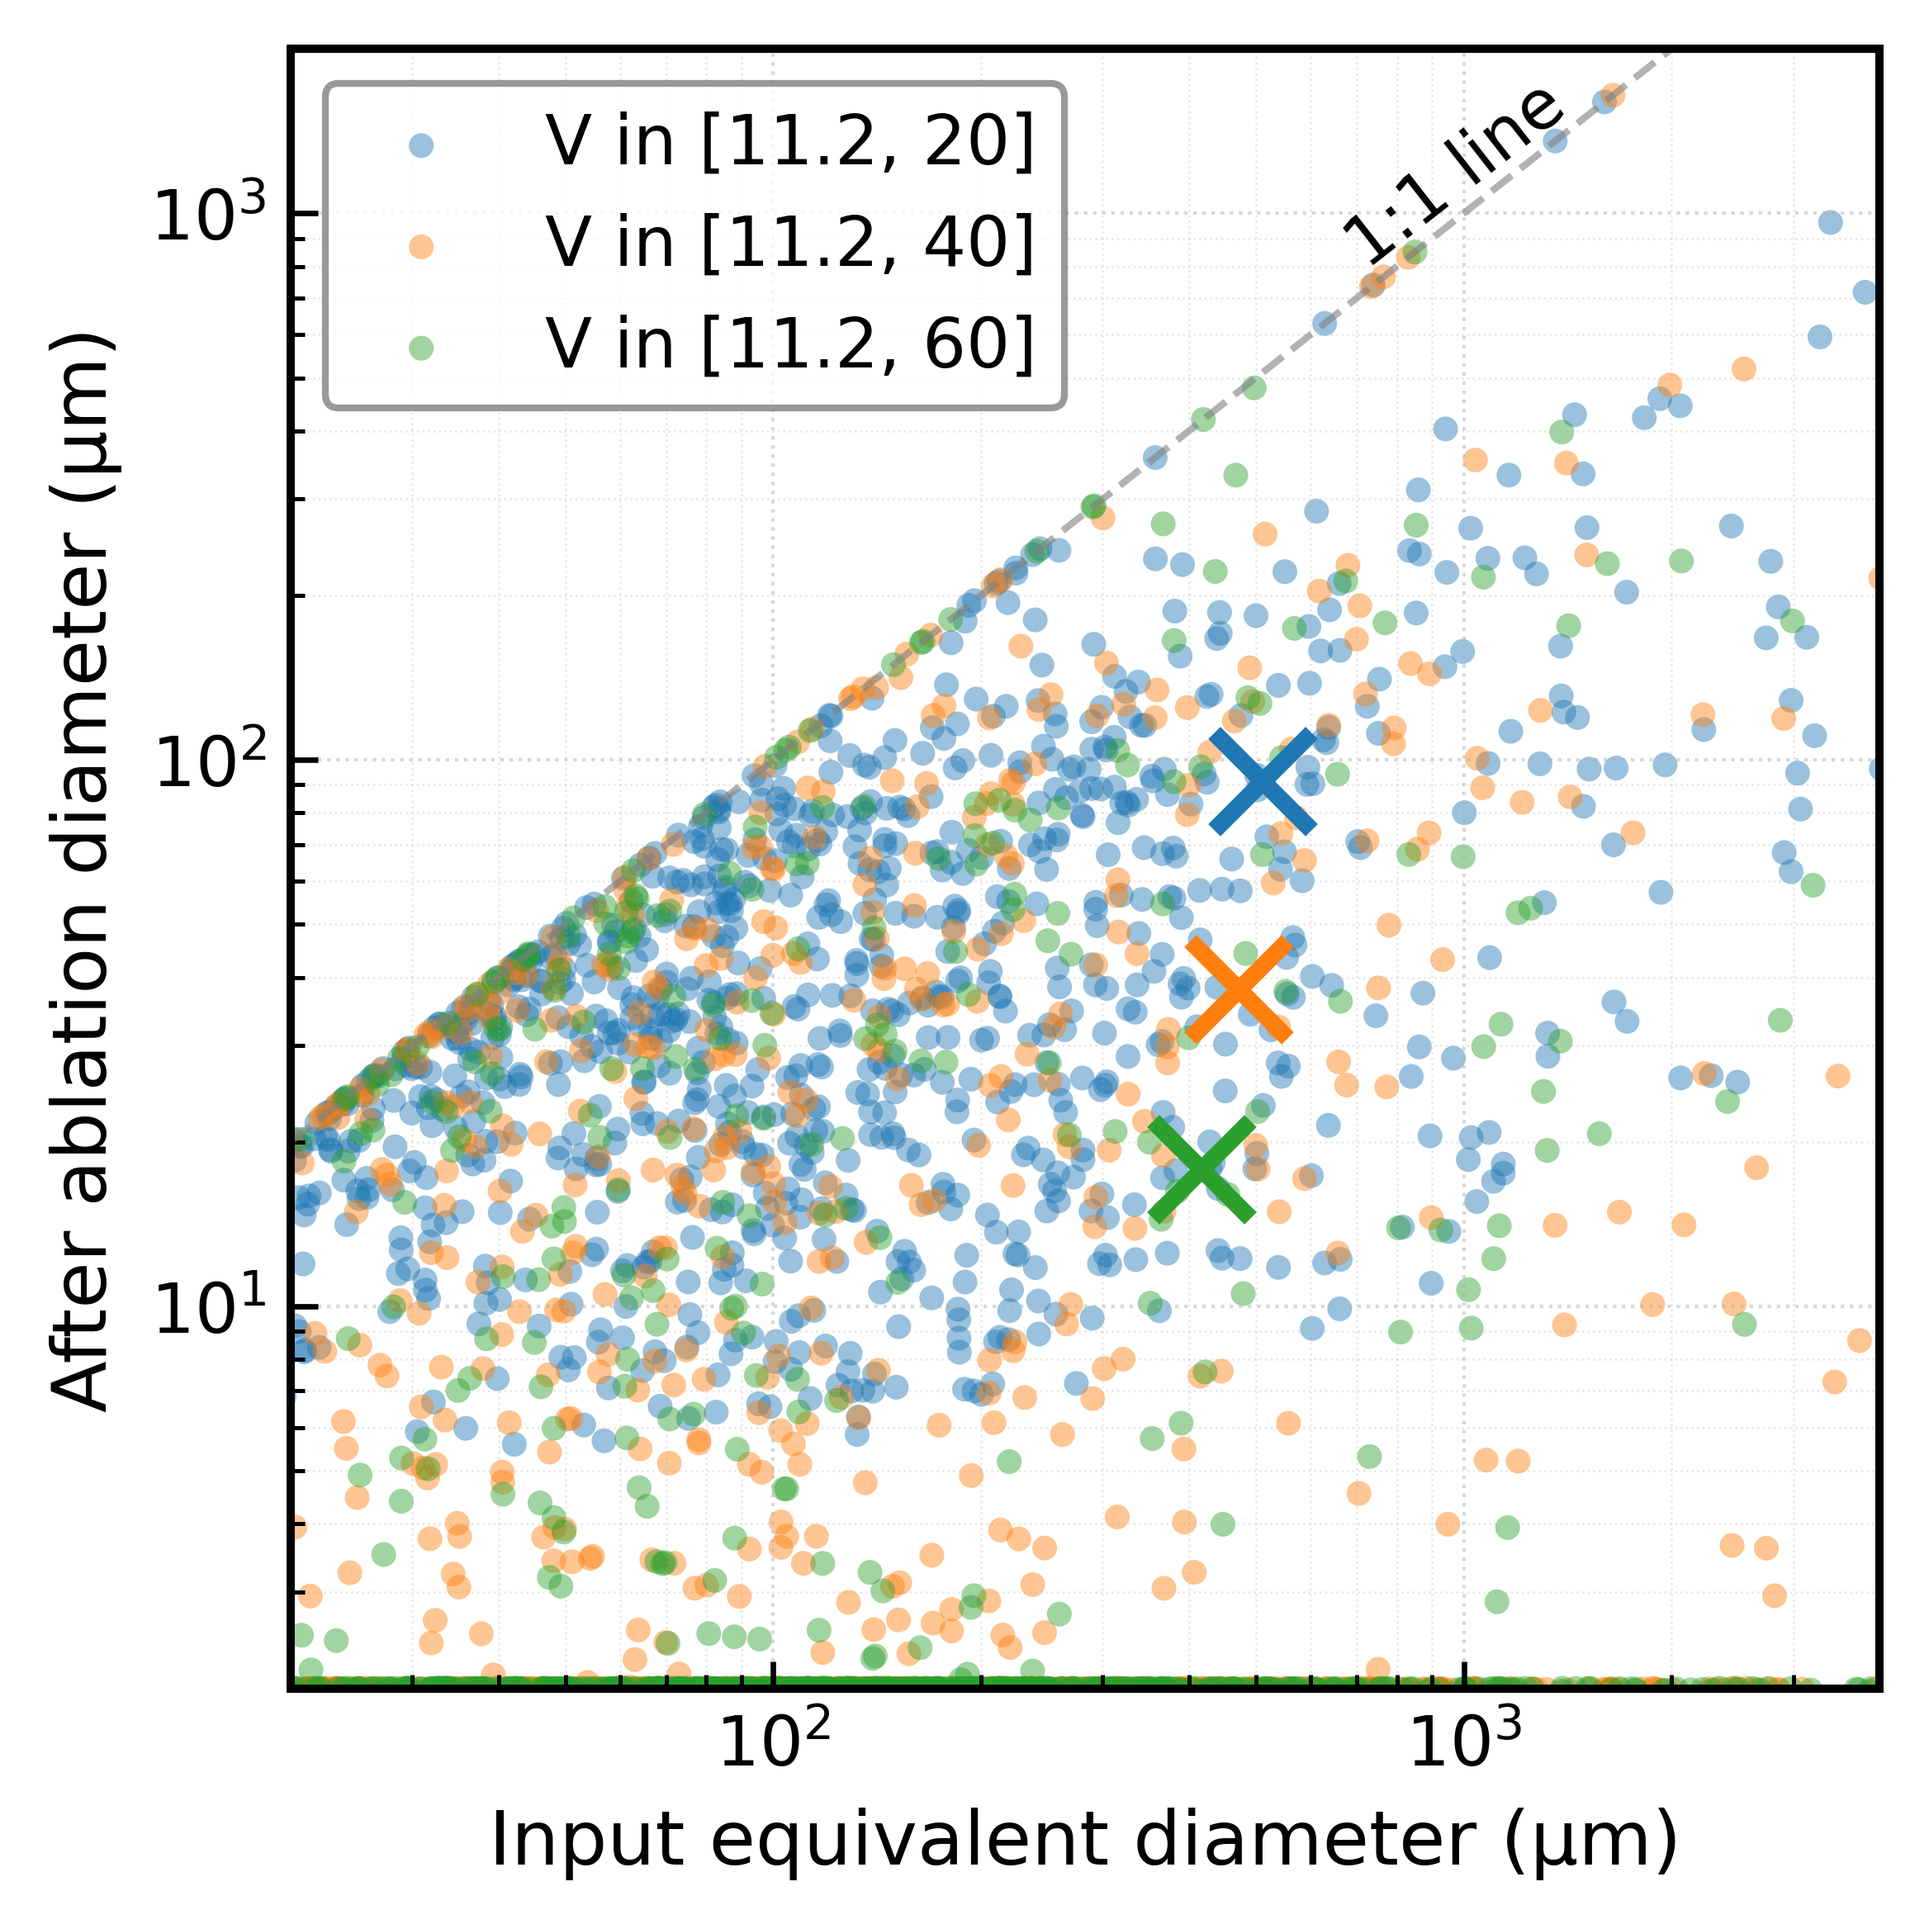
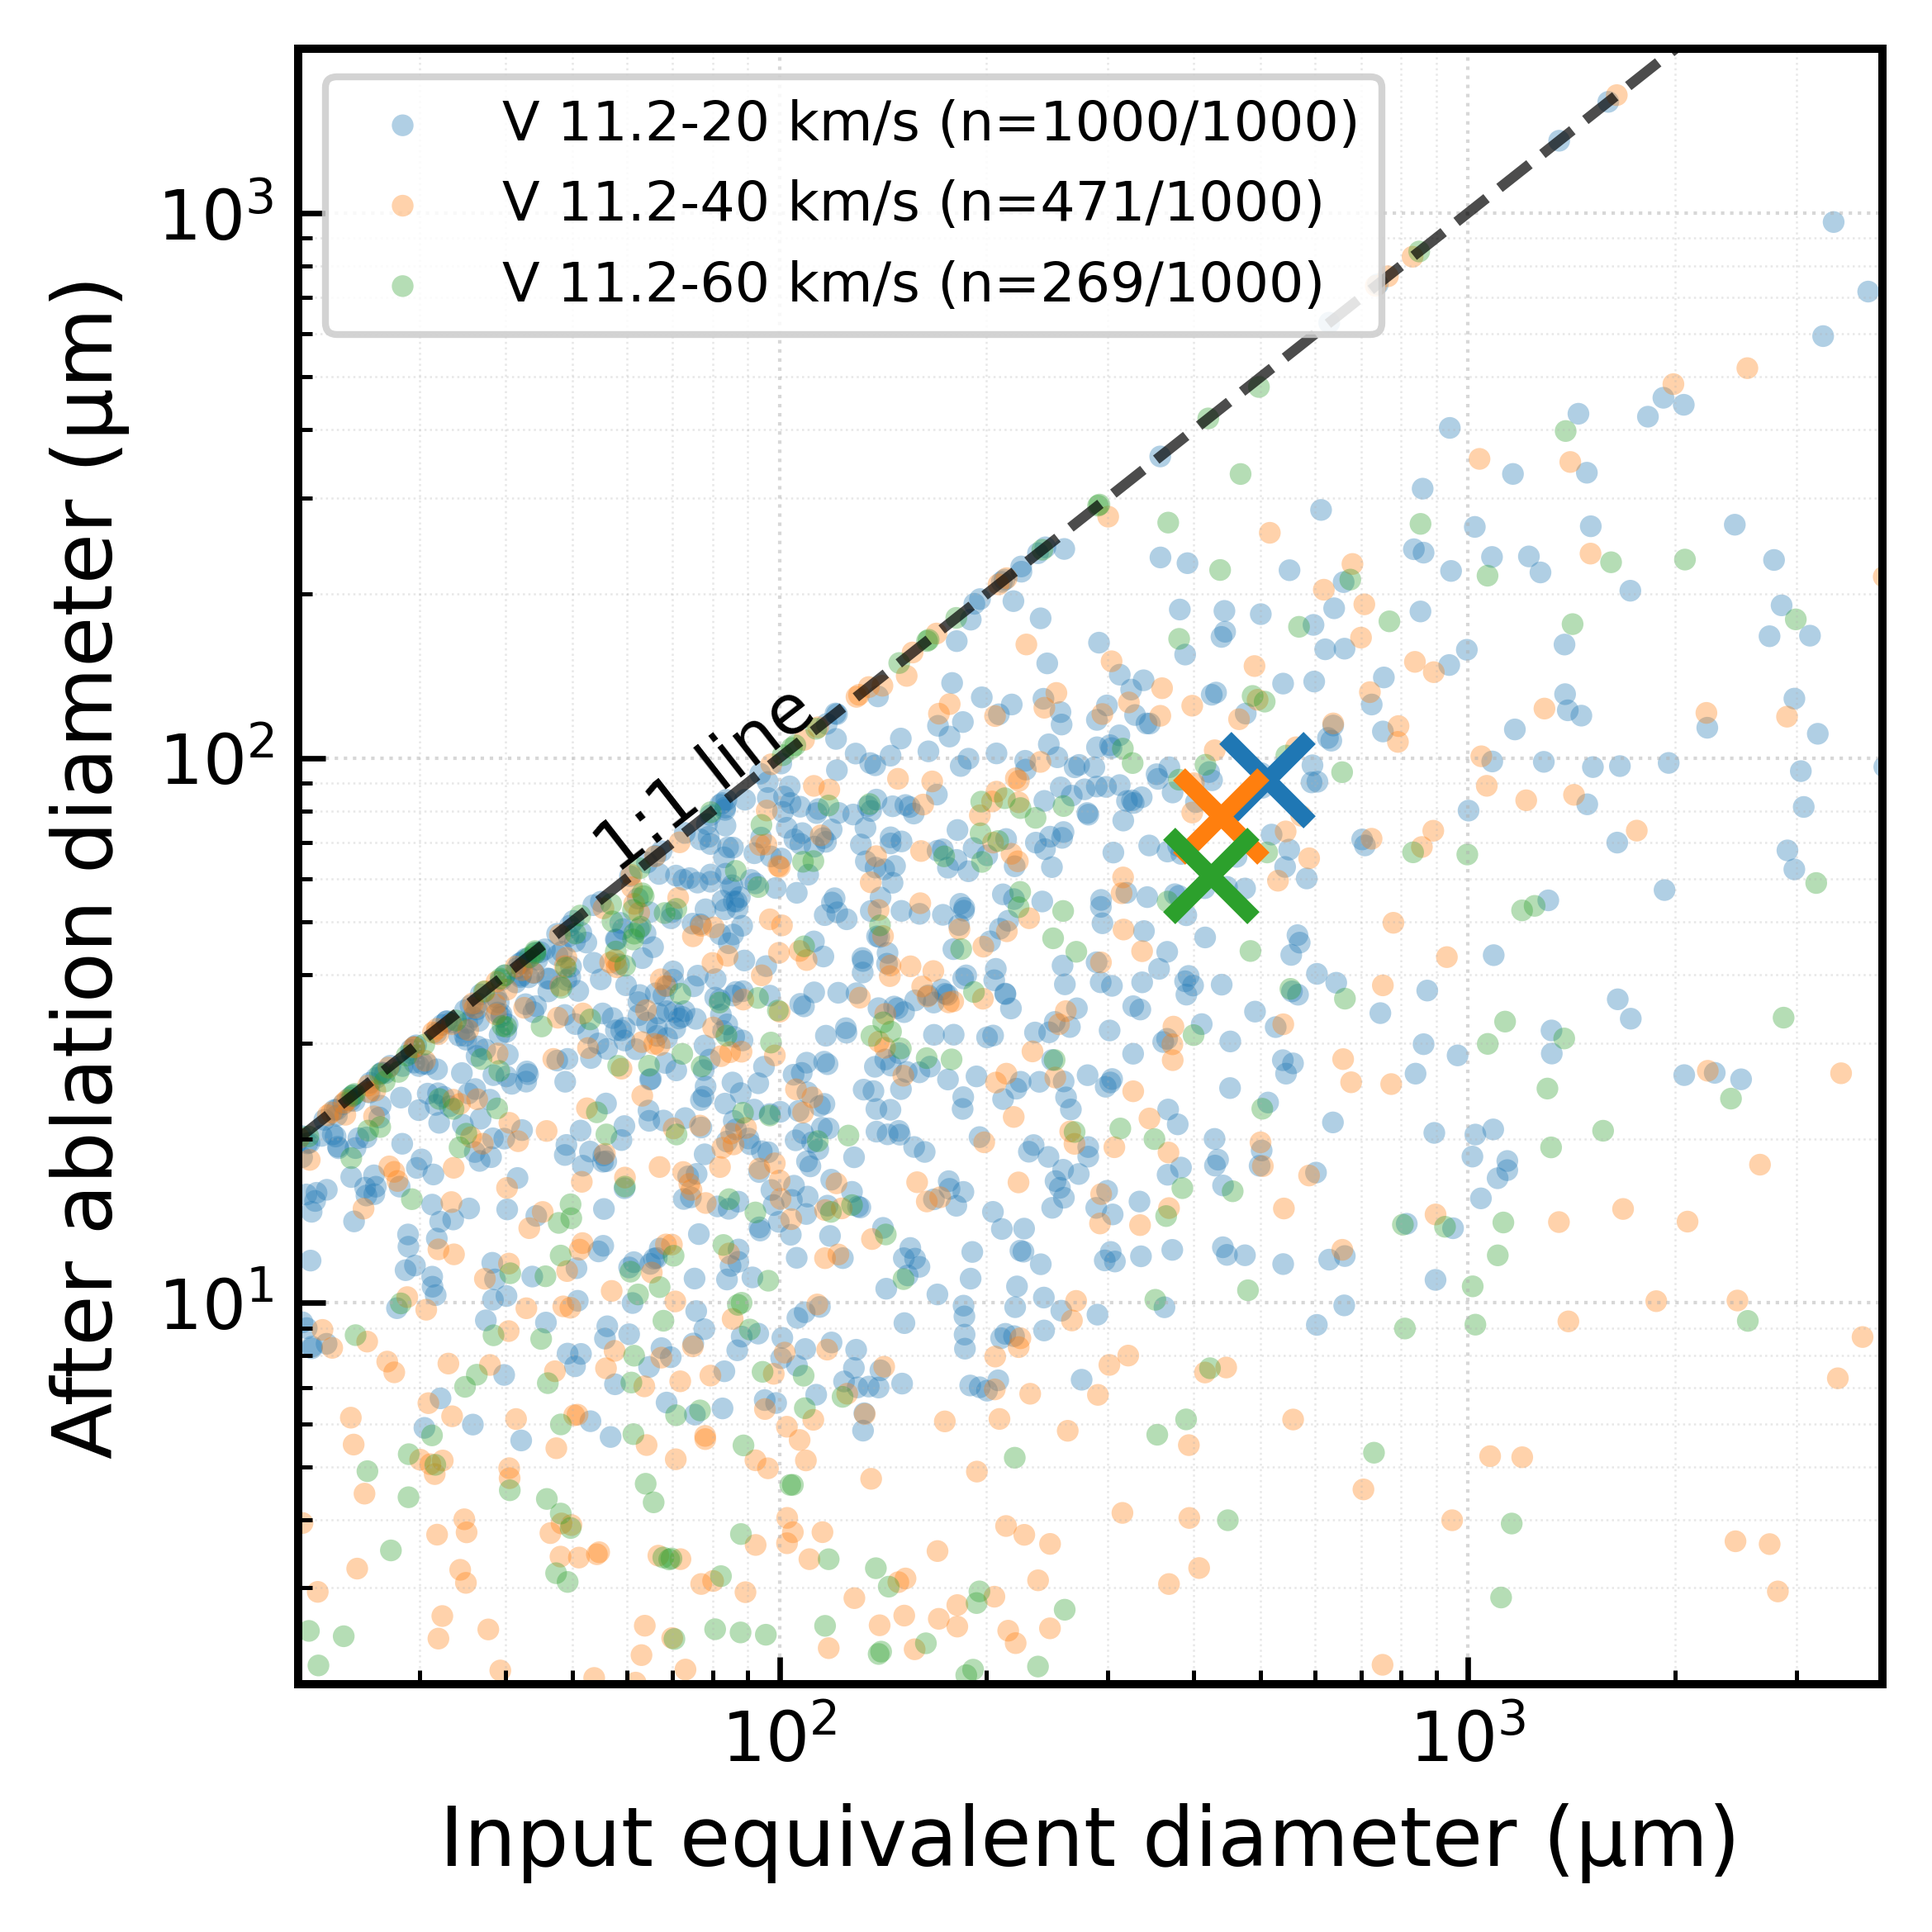
updated plot and analysis

diff --git a/plot2.py b/plot2.py
@@ -1,0 +1,137 @@
+import numpy as np
+import pandas as pd
+import matplotlib.pyplot as plt
+from matplotlib import rcParams
+
+rho_fe = 7000
+
+def radius(mass, rho):
+    return (3 * mass / (4 * np.pi * rho))**(1/3)
+
+rcParams['axes.linewidth'] = 1.2
+rcParams['xtick.direction'] = 'in'
+rcParams['ytick.direction'] = 'in'
+rcParams['xtick.major.size'] = 4
+rcParams['ytick.major.size'] = 4
+rcParams['xtick.minor.size'] = 2
+rcParams['ytick.minor.size'] = 2
+
+files = ['./PureN2_upper_20','./PureN2_upper_40','./PureN2_upper_60']
+labels = ['V 11.2-20 km/s','V 11.2-40 km/s','V 11.2-60 km/s']
+colors = ['#1f77b4', '#ff7f0e', '#2ca02c']
+
+# Store simulation data for the second figure
+simulation_data = {}
+
+fig, ax = plt.subplots(figsize=(4, 4), dpi=300)
+
+for path, lbl, col in zip(files, labels, colors):
+
+    args = pd.read_csv(f'{path}/co2_0/clean_args_array.dat',sep=r'\s+')
+    results = pd.read_csv(f'{path}/co2_0/clean_results.dat',sep=r'\s+')
+    mass_in = args.iloc[:, 0].to_numpy()
+    
+    r_in = radius(mass_in, rho_fe) * 1e6 * 2
+    r_out = results.iloc[:, 0].to_numpy() * 1e6 * 2
+
+    # Remove invalid values and the horizontal floor
+    mask = (np.isfinite(r_in) &
+        np.isfinite(r_out) &
+        (r_in > 0) &
+        (r_out > 2.0)
+    )
+
+    r_in_clean = r_in[mask]
+    r_out_clean = r_out[mask]
+
+    n_total = 1000
+    n_survived = np.sum(mask)
+    survival_fraction = n_survived / n_total * 100
+
+    print(f'{lbl}: {n_survived}/{n_total} retained ({survival_fraction:.1f}%)')
+
+    simulation_data[lbl] = r_out_clean
+
+    ax.scatter(r_in_clean, r_out_clean, s=10, c=col,
+                alpha=0.35, label=f'{lbl} (n={n_survived}/1000)',  edgecolors='none')
+
+    # Mean of retained points
+    ax.scatter(np.mean(r_in_clean), np.mean(r_out_clean), marker='x', s=150, linewidths=2.5, color=col, zorder=10)
+
+
+ax.plot([20, 5000], [20, 5000],'--', color='k', lw=1.5, alpha=0.7)
+
+ax.set_xscale('log')
+ax.set_yscale('log')
+ax.set_xlim(20, 4000)
+ax.set_ylim(2, 2000)
+ax.set_xlabel('Input equivalent diameter (μm)', fontsize=12)
+ax.set_ylabel('After ablation diameter (μm)', fontsize=12)
+ax.grid(True, which='major', linestyle=':', linewidth=0.5, alpha=0.5)
+ax.grid(True, which='minor', linestyle=':', linewidth=0.3, alpha=0.3)
+ax.legend(frameon=True,fontsize=8,loc='upper left',framealpha=0.85)
+ax.text(52, 62, '1:1 line', rotation=38, fontsize=10)
+plt.tight_layout()
+plt.savefig('co2_ablation_comparison.png', dpi=600, bbox_inches='tight')
+plt.show()
+
+# ==========================================
+# Figure 2: ECDF comparison
+# ==========================================
+
+obs = pd.read_csv('observed_size.csv')
+
+observed_data = {
+    'Modern': obs['modern'].dropna().to_numpy(),
+    'Helena': obs['helena'].dropna().to_numpy(),
+    'Devonian': obs['devonian'].dropna().to_numpy(),
+    'Miocene': obs['Miocene'].dropna().to_numpy()
+}
+
+observed_colors = {
+    'Modern': '#444444',
+    'Helena': '#b2182b',
+    'Devonian': '#762a83',
+    'Miocene':  '#FFA500'
+}
+
+def plot_ecdf(ax, values, label, color, **kwargs):
+
+    values = np.asarray(values, dtype=float)
+    values = values[np.isfinite(values) & (values > 0)]
+    values = np.sort(values)
+    n = len(values)
+    if n == 0:
+        return
+    y = np.arange(1, n + 1) / n
+    ax.step(values,y,where='post',label=f'{label} (n={n})',color=color,**kwargs)
+
+
+fig, ax = plt.subplots(figsize=(5, 4), dpi=300)
+
+# ------------------------------------------
+# Simulated ECDF
+# ------------------------------------------
+
+for lbl, col in zip(labels, colors):
+
+    plot_ecdf(ax, simulation_data[lbl], label=lbl, color=col, linewidth=1.8, alpha=0.9, linestyle='--')
+
+# ------------------------------------------
+# Observed ECDF
+# ------------------------------------------
+
+for lbl, values in observed_data.items():
+    plot_ecdf(ax, values, label=lbl, color=observed_colors[lbl], linewidth=2.2, linestyle='-')
+
+ax.set_xlabel('Spherule diameter (μm)',fontsize=11)
+ax.set_ylabel('Cumulative fraction', fontsize=11)
+ax.set_xlim(0, 400)
+ax.set_ylim(0, 1.02)
+ax.set_yticks(np.arange(0, 1.01, 0.2))
+ax.grid(True,linestyle=':',linewidth=0.5, alpha=0.4)
+ax.legend(fontsize=8,frameon=False,loc='lower right')
+
+plt.tight_layout()
+plt.savefig('size_ecdf.png',dpi=600, bbox_inches='tight')
+plt.show()

diff --git a/plot.py b/plot.py
@@ -26,16 +26,16 @@ for path, lbl, col in zip(files, labels, colors):
     results = pd.read_csv(f'{path}/co2_0/clean_results.dat', delimiter=' ')
     r_out = results.iloc[:, 0].to_numpy() * 1e6 * 2
     r_in  = radius(mass_in, rho_fe) * 1e6 * 2
-    ax.scatter(r_in, r_out, s=13, c=col, alpha=0.45, label=lbl, edgecolors='none')
+    ax.scatter(r_in, r_out, s=10, c=col, alpha=0.35, label=lbl, edgecolors='none')
     ax.scatter(np.mean(r_in), np.mean(r_out),
            marker='x', s=200, linewidths=2.5,
            color=col, edgecolors='black', zorder=10)
 
-ax.plot([20, 5000], [20, 5000], '--', color='gray', lw=1, alpha=0.6)
+ax.plot([20, 5000], [20, 5000], '--', color='k', lw=1.5, alpha=0.7)
 ax.set_xscale('log')
 ax.set_yscale('log')
 ax.set_xlim(20, 4000)
-ax.set_ylim(2, 2000)
+ax.set_ylim(1, 2000)
 ax.set_xlabel('Input equivalent diameter (μm)', fontsize=11)
 ax.set_ylabel('After ablation diameter (μm)', fontsize=11)
 ax.grid(True, which='major', linestyle=':', linewidth=0.5, alpha=0.5)
@@ -47,5 +47,125 @@ leg.get_frame().set_alpha(0.8)
 leg.get_frame().set_edgecolor('gray')
 plt.text(6.5e2,8e2,'1:1 line',rotation = 38)
 plt.tight_layout()
-#plt.savefig('co2_ablation_comparison.pdf', dpi=600, bbox_inches='tight')
+plt.savefig('co2_ablation_comparison.png', dpi=600, bbox_inches='tight')
+plt.show()
+
+# ==========================================
+# Figure 2: ECDF comparison
+# ==========================================
+
+obs = pd.read_csv('observed_sizes.csv')
+
+observed_data = {
+    'Modern': obs['modern'].dropna().to_numpy(),
+    'Helena': obs['helena'].dropna().to_numpy(),
+    'Devonian': obs['devonian'].dropna().to_numpy()
+}
+
+observed_colors = {
+    'Modern': '#444444',
+    'Helena': '#b2182b',
+    'Devonian': '#762a83'
+}
+
+def plot_ecdf(ax, values, label, color, **kwargs):
+
+    values = np.asarray(values, dtype=float)
+
+    values = values[
+        np.isfinite(values) & (values > 0)
+    ]
+
+    values = np.sort(values)
+
+    n = len(values)
+
+    if n == 0:
+        return
+
+    y = np.arange(1, n + 1) / n
+
+    ax.step(
+        values,
+        y,
+        where='post',
+        label=f'{label} (n={n})',
+        color=color,
+        **kwargs
+    )
+
+
+fig, ax = plt.subplots(figsize=(5, 4), dpi=300)
+
+# ------------------------------------------
+# Simulated ECDF
+# ------------------------------------------
+
+for lbl, col in zip(labels, colors):
+
+    plot_ecdf(
+        ax,
+        simulation_data[lbl],
+        label=lbl,
+        color=col,
+        linewidth=1.8,
+        alpha=0.9
+    )
+
+# ------------------------------------------
+# Observed ECDF
+# ------------------------------------------
+
+for lbl, values in observed_data.items():
+
+    plot_ecdf(
+        ax,
+        values,
+        label=lbl,
+        color=observed_colors[lbl],
+        linewidth=2.2,
+        linestyle='--'
+    )
+
+# ------------------------------------------
+# Formatting
+# ------------------------------------------
+
+ax.set_xlabel(
+    'Spherule diameter (μm)',
+    fontsize=11
+)
+
+ax.set_ylabel(
+    'Cumulative fraction',
+    fontsize=11
+)
+
+ax.set_xlim(0, 400)
+ax.set_ylim(0, 1.02)
+
+ax.set_yticks(np.arange(0, 1.01, 0.2))
+
+ax.grid(
+    True,
+    linestyle=':',
+    linewidth=0.5,
+    alpha=0.4
+)
+
+ax.legend(
+    fontsize=8,
+    frameon=False,
+    loc='lower right'
+)
+
+plt.tight_layout()
+
+plt.savefig(
+    'size_ecdf.png',
+    dpi=600,
+    bbox_inches='tight'
+)
+
+
 plt.show()

diff --git a/README.md b/README.md
@@ -19,7 +19,7 @@ Simulations were conducted under a 1-bar, pure N₂ atmosphere to isolate the ef
 The results show that higher entry velocities generally lead to greater atmospheric heating and more extensive ablation, resulting in smaller average final particle diameters.
 
 <p align="center">
-  <img src="co2_ablation_comparison.png" width="500">
+  <img src="co2_ablation_comparison.pdf" width="500">
 </p>
 
 <p align="center">
